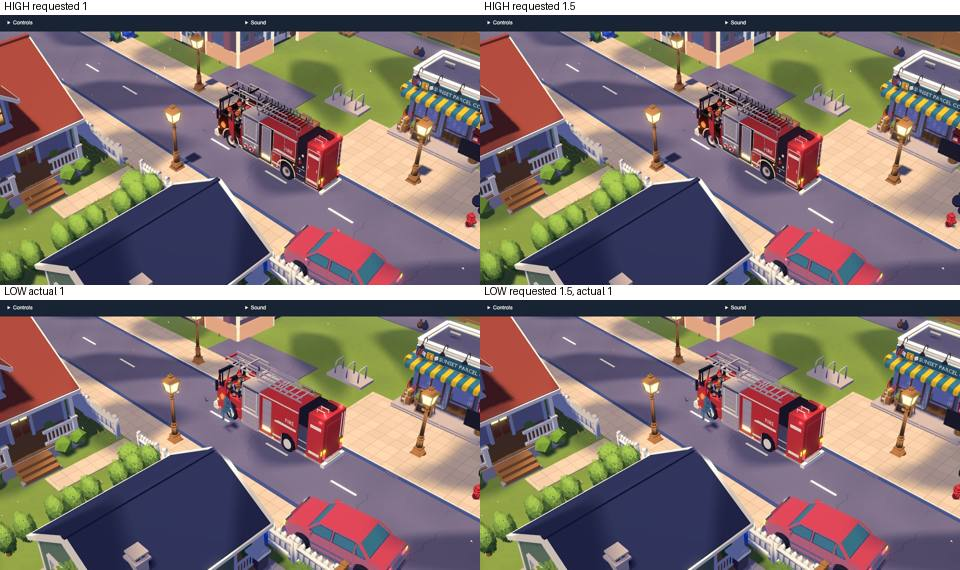
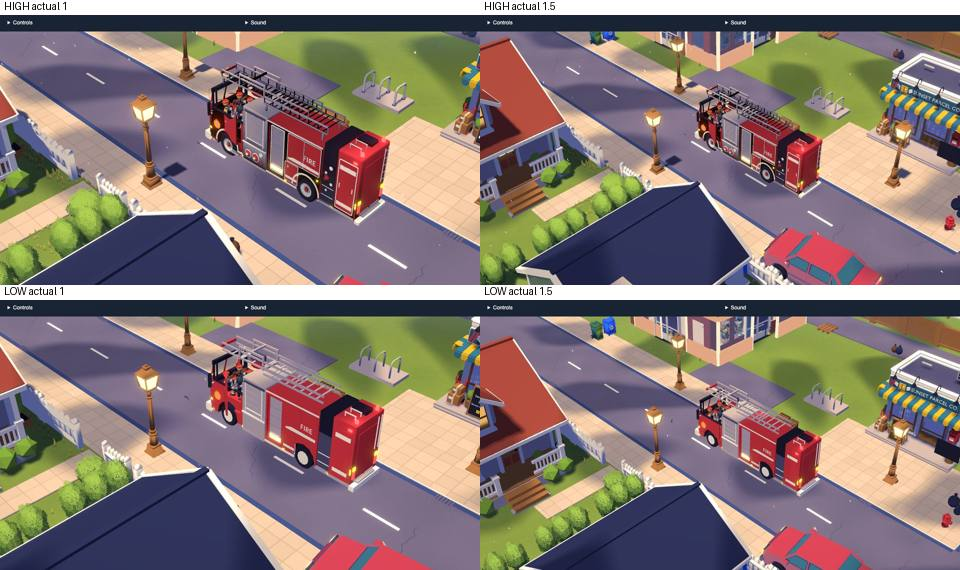
Record L2 arrival at both zooms

diff --git a/docs/reports/f11-l2l3vis/README.md b/docs/reports/f11-l2l3vis/README.md
@@ -23,6 +23,8 @@ Follow-up: browser access was restored and later captures are documented below. 
 
 ## Validation so far
 
[1 lines of base64/hex data omitted]
+
 - L2 arrival render gap fix: `carTransitionPose` hides the world courier for the first 12 exit ticks, while `VehicleView` previously excluded L2 from the seated transition copy that covers that interval. Reused the existing copy at `crewSeat0` for L2. Opened both HIGH tick 3172 and LOW tick 3150 arrival frames at each requested zoom: the courier's teal figure and several helmeted firefighters are visible in the cutaway, with overlap. Sidecars report actual zoom 1 for all four, so actual 1.5, continuous ride and exact same-attempt event timing remain open. Both 120-second sessions ended unfinished with one axe-prompt stall each. Typecheck, lint and QA build passed; final-source acceptance and threat rechecks remain pending.
 
 - HIGH L2 arrival audit (`f11-l2-arrival-high-audit`): opened both tick-3123-labelled images; same-frame sidecars report tick 3124 and actual zoom 1 for both requested 1 and 1.5. Several helmeted firefighters are visible in the cutaway; the courier is not identifiable. The final completion state records a later attempt (arrival tick 4260), so it cannot independently establish the sampled image's exact arrival/exit interval. The bounded 120-second run ended unfinished with the axe-prompt stall. This is not a pass and actual zoom 1.5 remains open.
@@ -57,7 +59,7 @@ Follow-up: browser access was restored and later captures are documented below. 
 
 - After pool access was restored, filtered `scene:gate` passed 2/2 selected L3 rows: `inf-chase-l3@high-z0.5` (WebGPU) and `l3-bar-cap-horde@low-z1.5` (WebGL2). Opened both generated sheets: the HIGH sheet shows a courier moving along a street and later surrounded by infected; the LOW sheet shows a group partially obscured by smoke with health bars. These automated scene gates do not establish the three requested visual reviews. No L2 scene was selected by the curated gate's L2/L3-name filter. Full row-specific capture and acceptance remain open.
 
[1 lines of base64/hex data omitted]
+- LOW L2 arrival follow-up (`f11-l2-low-v4`) ended unfinished at 120 seconds with the same axe-prompt stall. Opened both tick-3155 arrival images: several helmets are visible in the cutaway and the courier's blue silhouette is visible beside the cab. Both sidecars report tick 3156 and actual zoom 1, including the requested 1.5 image. Opened both tick-1498 station images: courier and firefighters are beside the truck before boarding. HIGH courier was not identifiable in its corresponding earlier frame; six distinct occupants and uninterrupted visibility were not established.
 
 - L3 attack framing follow-up: HIGH tick 832 projects the east-gate box to y=503.2–1103.6 px, versus the former nearest y=806.1 px. LOW prior tick 866 projects y=503.4–1105.0 px, versus former nearest y=805.1 px. Street smoke had intruded into the yard and covered the gate; restricted these render-only street sources to the corridor. Opened the revised HIGH and LOW `campaign-L3-defend-<tier>-z1{,-5}.jpg` frames: each shows the courier and part of the gate at the right edge, but the subtitle obscures the lower fight and no identifiable east-gate fight can be established. Same-frame sidecars show actual zoom 1.5 for both requested labels, radius 28.391 m (1.494× 19 m), HIGH tick 832 and LOW tick 872. Both bounded sessions ended unfinished without skips/issues. L3-05 remains open for independent actual zoom 1 and identifiable fight coverage; no review updated. Typecheck and QA build passed after restricting smoke.
 
